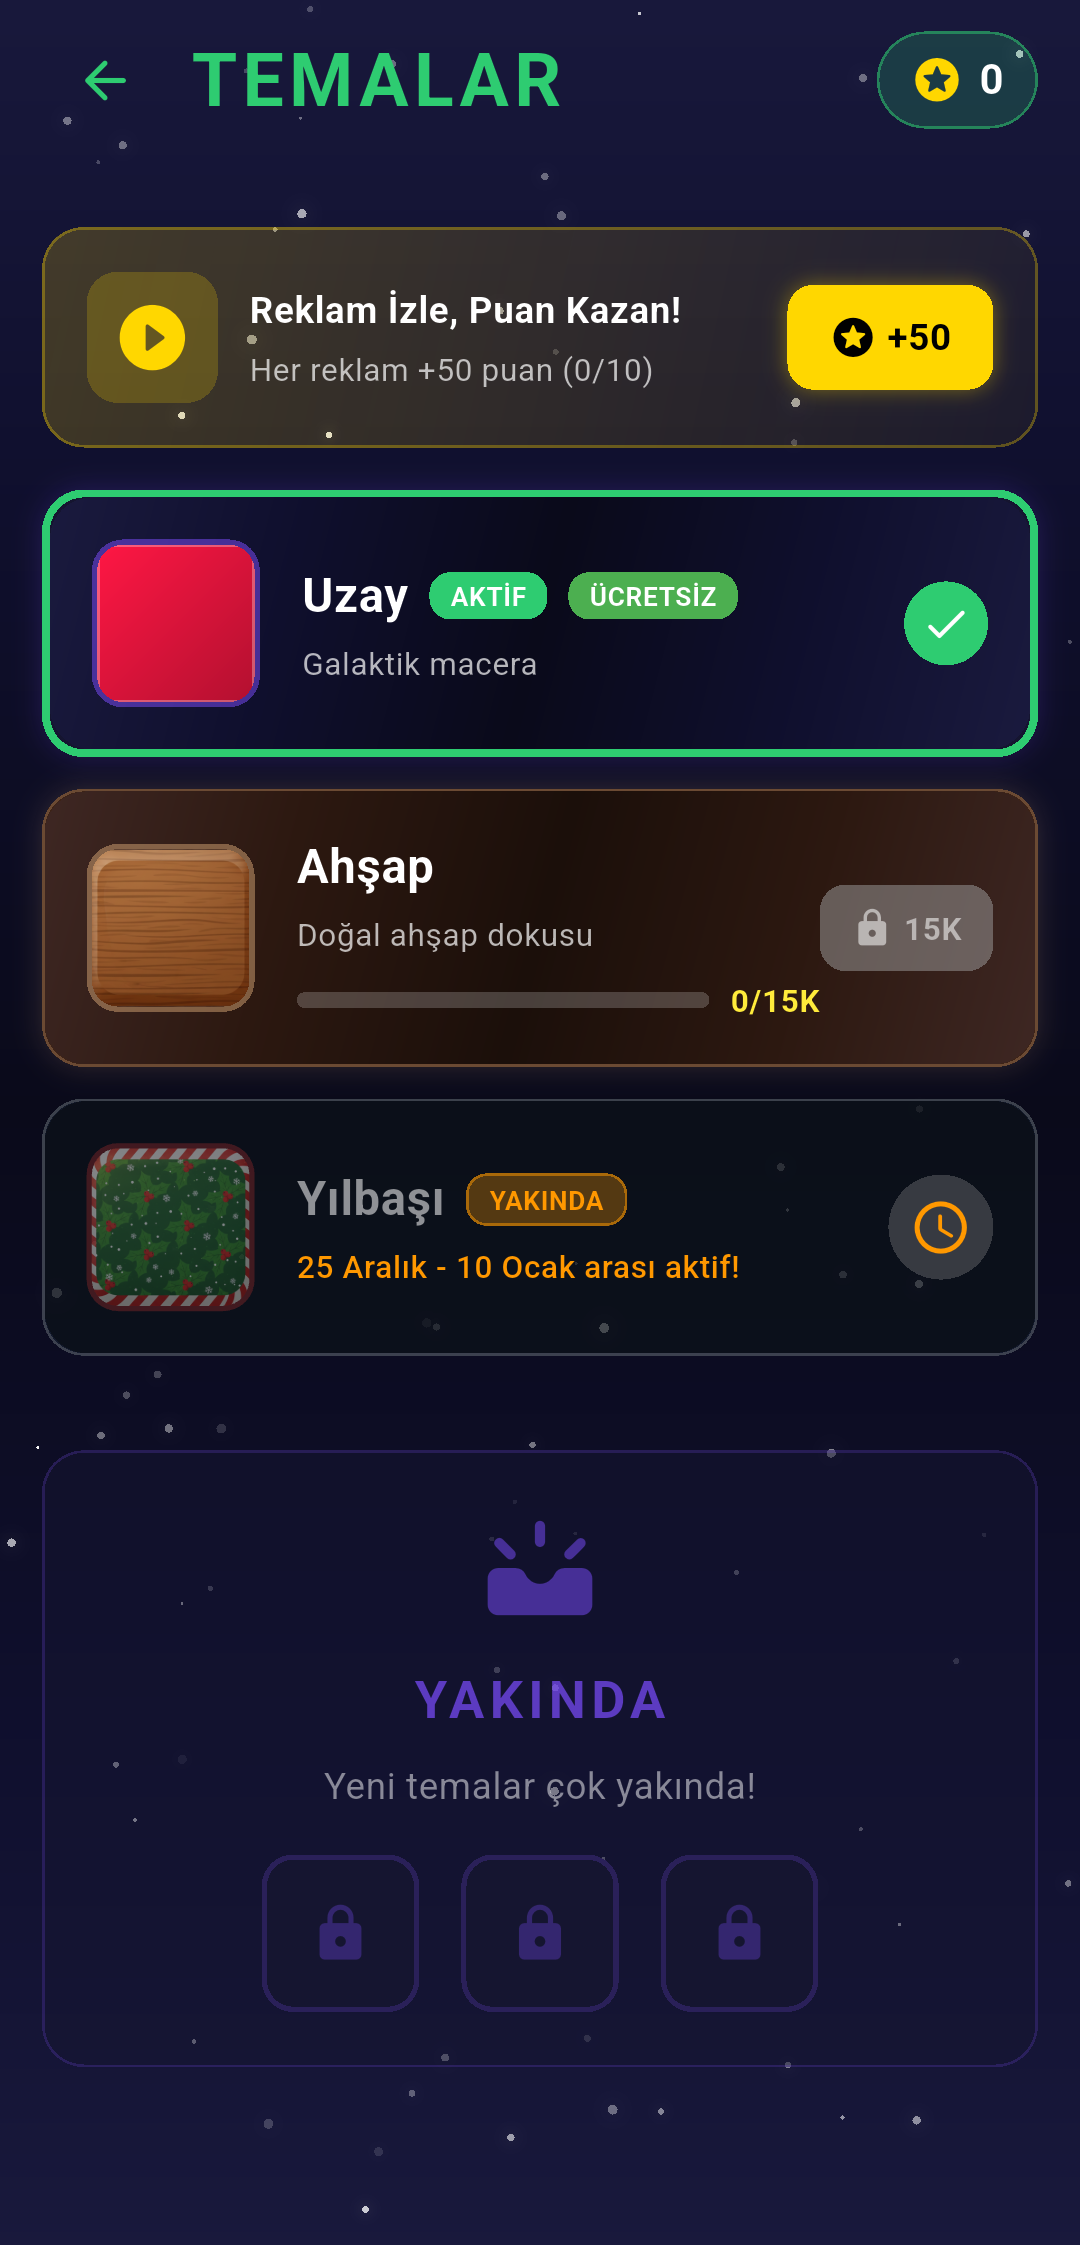
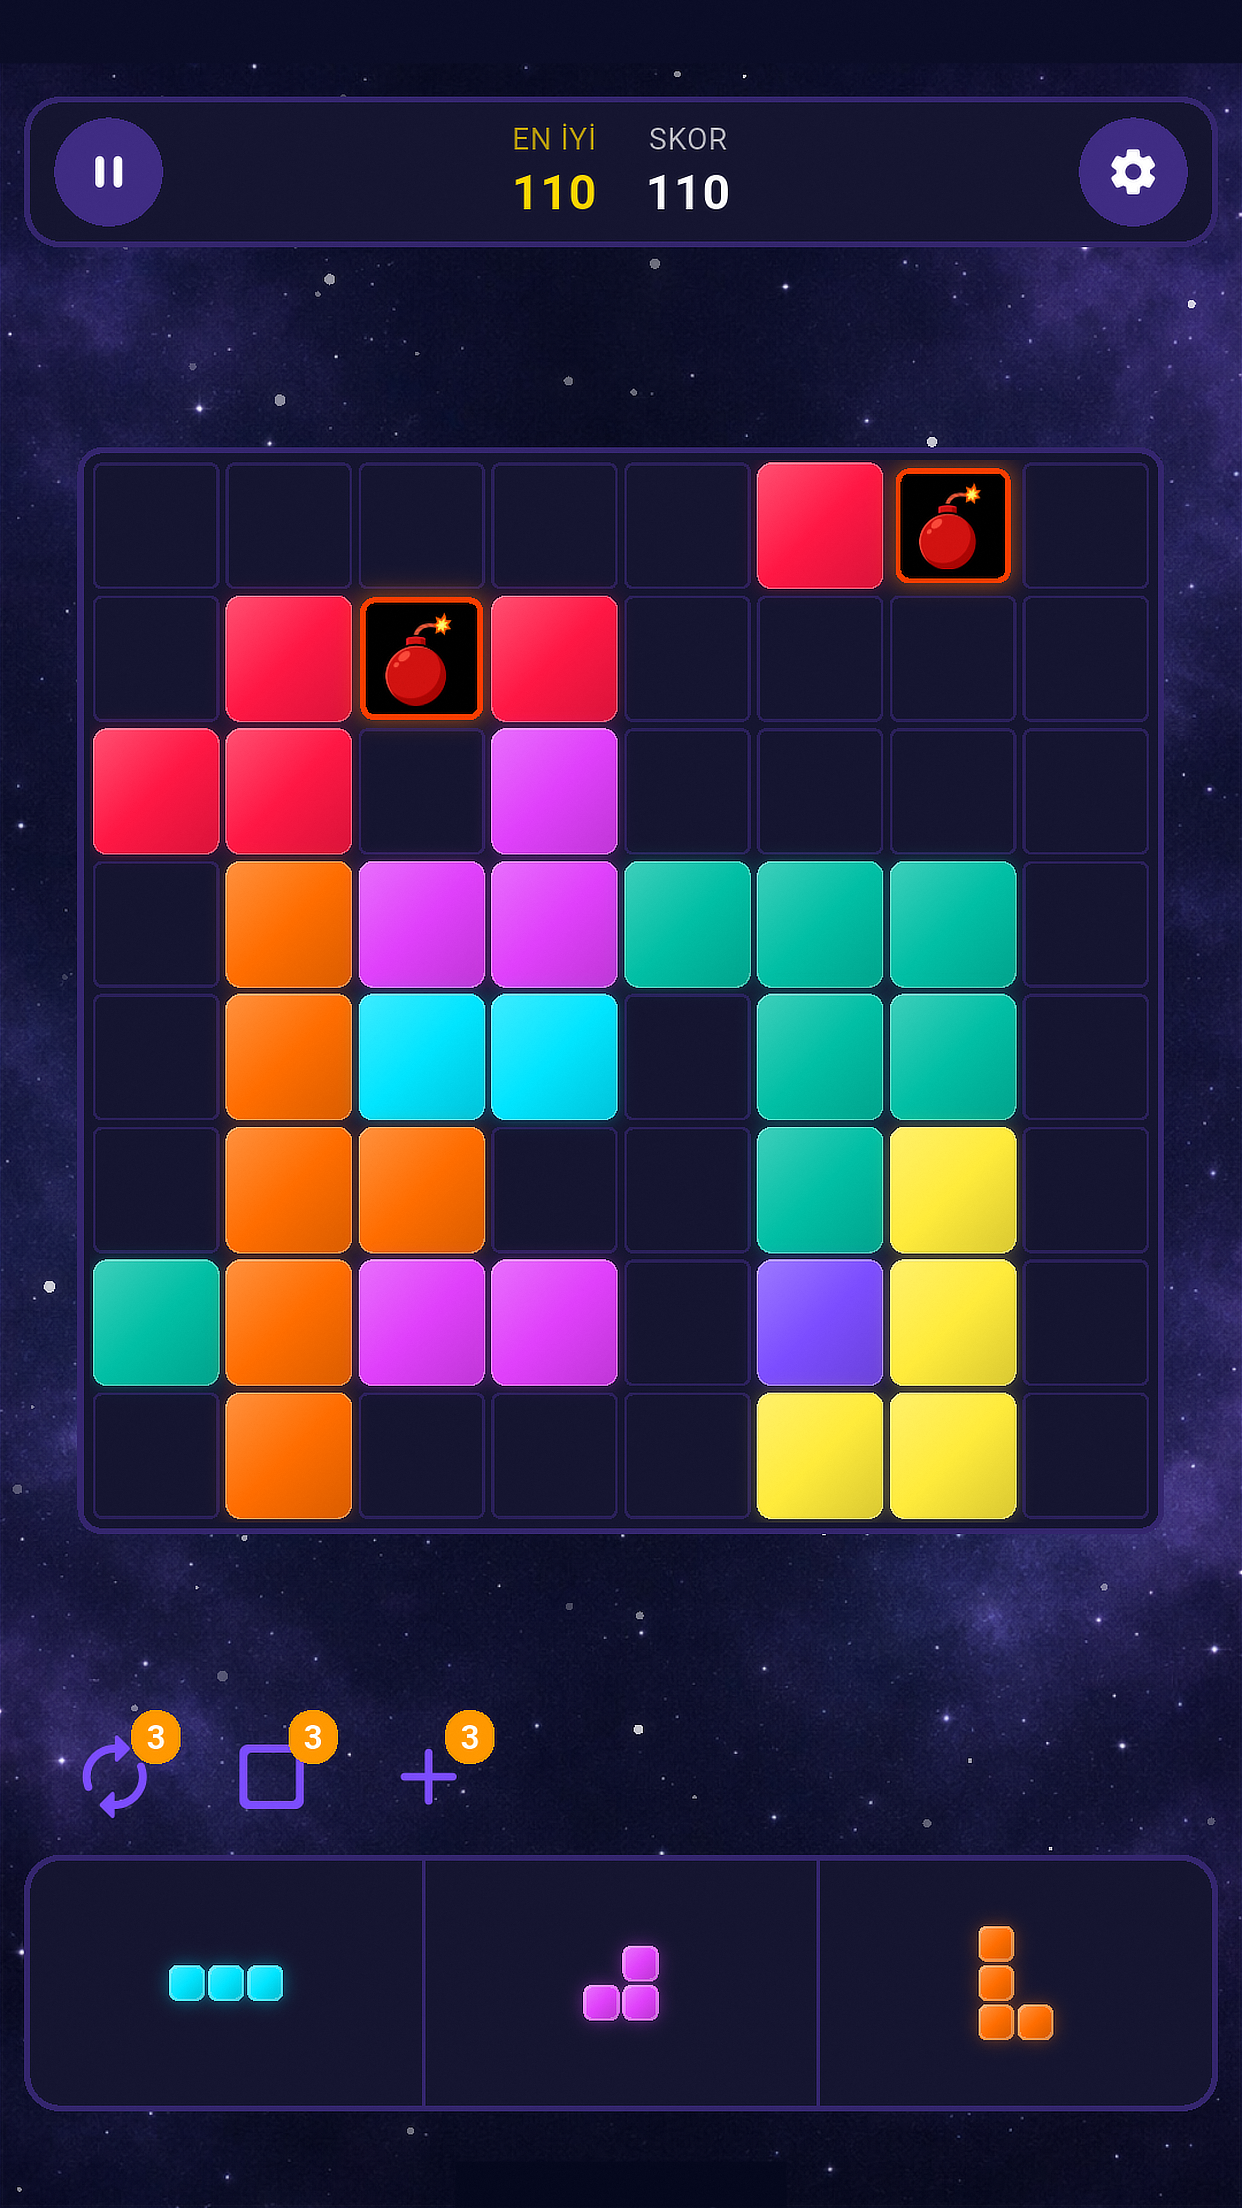
v47

diff --git a/index.html b/index.html
@@ -125,6 +125,12 @@
                     </div>
                     <div class="tech-item">
                         <div class="info">
+                            <h4>Unity</h4>
+                            <span>Oyun Motoru</span>
+                        </div>
+                    </div>
+                    <div class="tech-item">
+                        <div class="info">
                             <h4>Android</h4>
                             <span>Aktif Platform</span>
                         </div>

diff --git a/README.md b/README.md
@@ -10,6 +10,7 @@ DKC Ai Labs, yapay zekâ teknolojilerini geliştirme süreçlerinde kullanarak y
 
 - **Flutter** - Uygulama Framework
 - **Flame** - Oyun Motoru
+- **Unity** - Oyun Motoru
 - **Android** - Aktif Platform
 
 ## Bağlantılar
